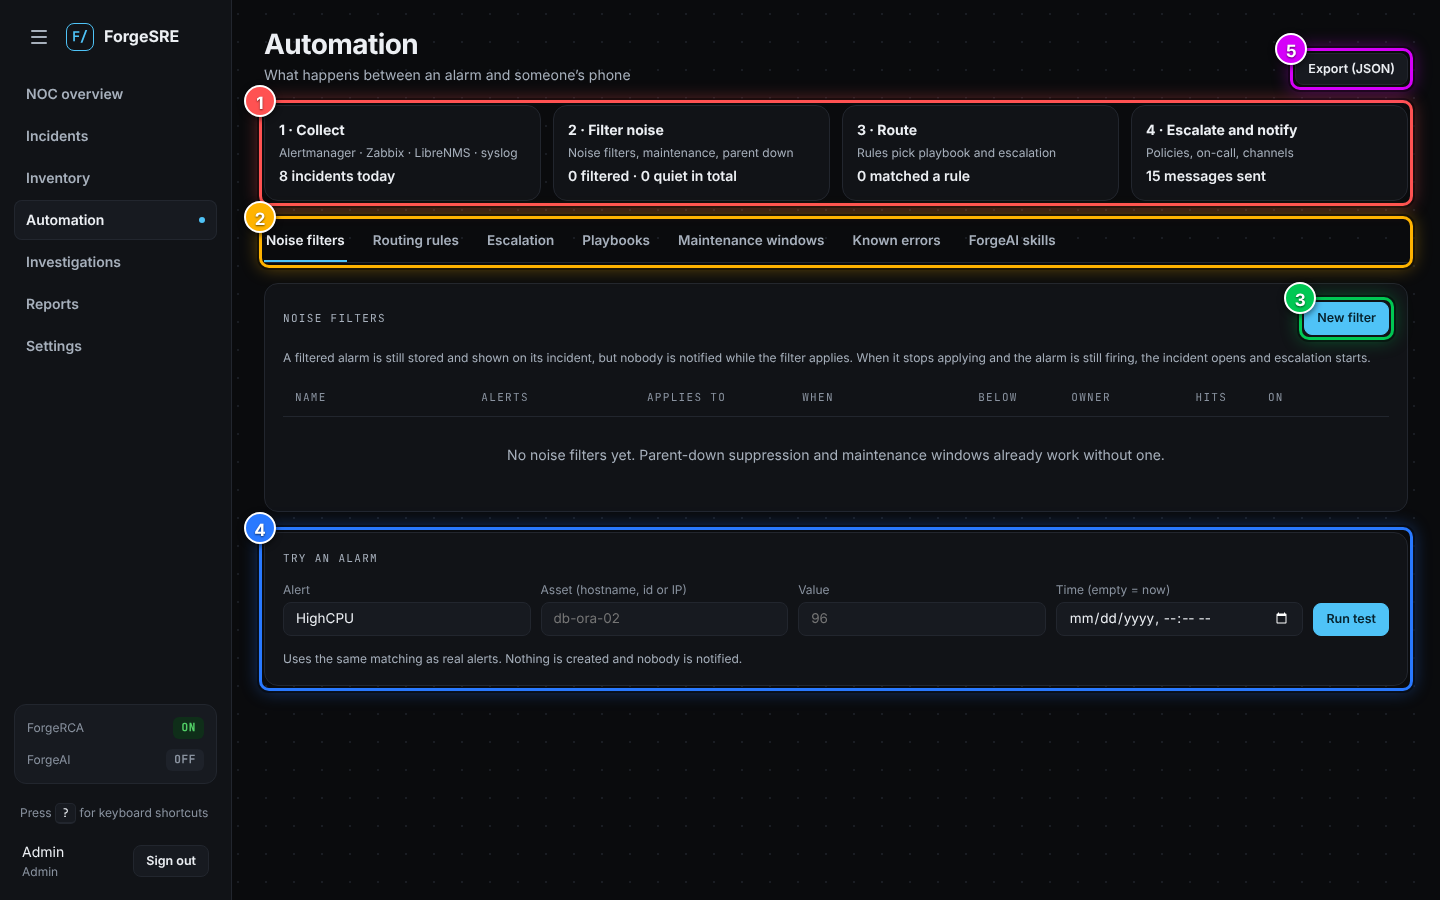
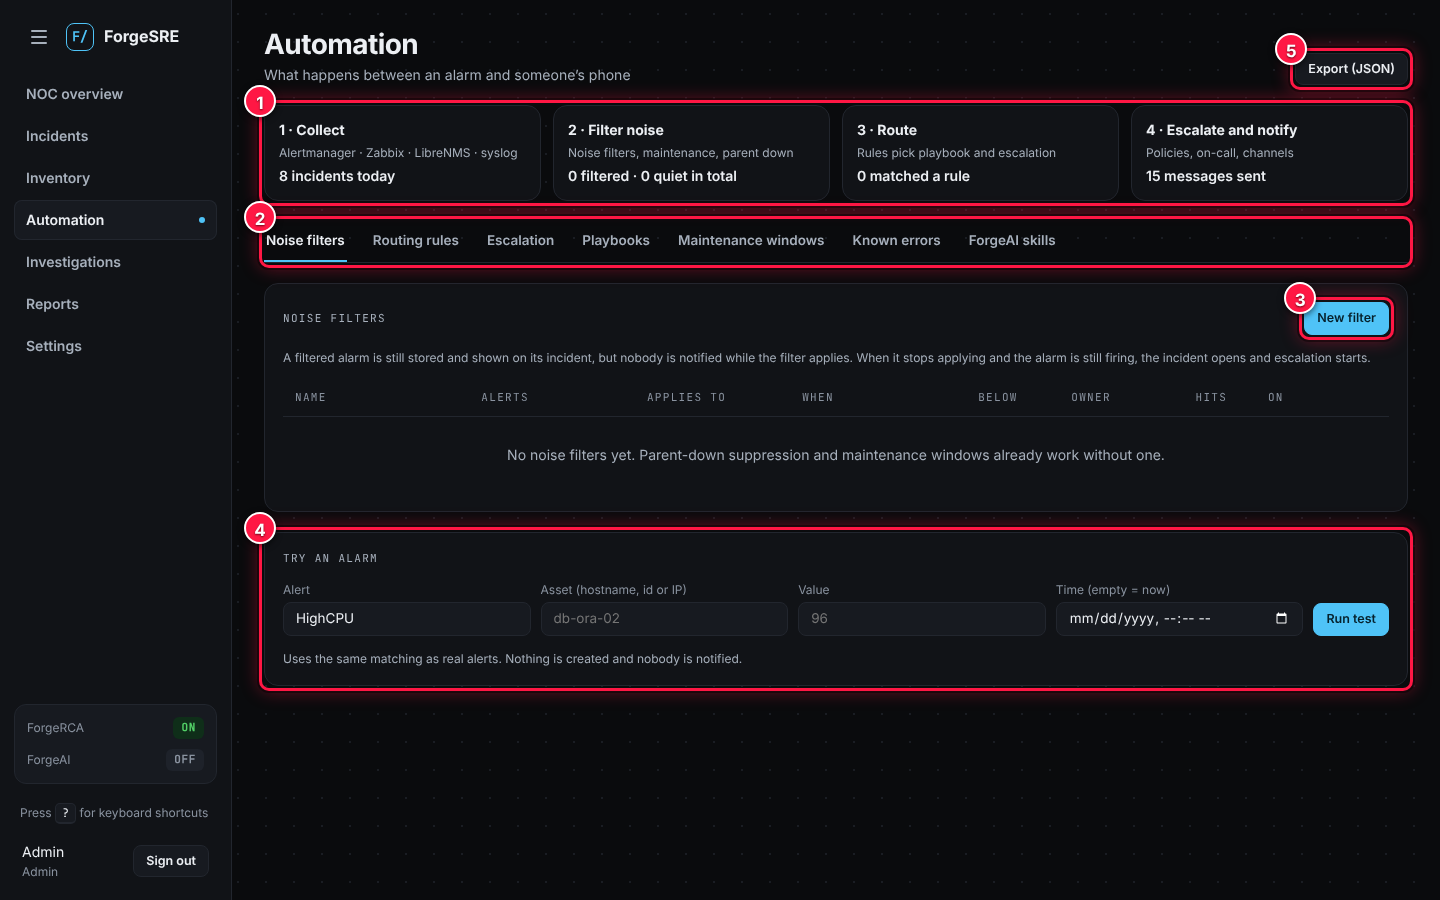
Guide marks in one red; table column Acknow. with short Acknow / Not acknow
Claude-Session: https://claude.ai/code/session_01K9hus2JZBeXGjiRoAgeJJH

diff --git a/web/src/components/IncidentTable.tsx b/web/src/components/IncidentTable.tsx
@@ -45,14 +45,12 @@ function IncidentRow({ row, picked, onPick }: { row: NocIncident; picked?: boole
       <td className="small muted">{row.source || "—"}</td>
       <td>
         {row.ack_at ? (
-          <div className="cell-stack">
-            <span className="small" style={{ color: "var(--ok)", fontWeight: 600 }}>Acked</span>
-            <span className="small muted">{row.ack_by}</span>
-          </div>
+          // who and when are on the incident page and in the tooltip; the cell stays short so Tier fits
+          <span className="small" style={{ color: "var(--ok)", fontWeight: 600 }} title={`Acknowledged by ${row.ack_by || "someone"}`}>Acknow</span>
         ) : row.resolved_at ? (
           <span className="small muted">—</span>
         ) : (
-          <span className="small" style={{ color: `var(--${tone === "crit" ? "crit" : "high"})`, fontWeight: 600 }}>Not acked</span>
+          <span className="small" style={{ color: `var(--${tone === "crit" ? "crit" : "high"})`, fontWeight: 600, whiteSpace: "nowrap" }}>Not acknow</span>
         )}
       </td>
       <td><Chip tone="off">{tierLabel(row.level)}</Chip></td>
@@ -108,7 +106,7 @@ export function IncidentTable({ rows, loaded, canWork = false, onChanged }: { ro
             <th style={{ width: 150 }}>Host</th>
             <th>Problem</th>
             <th style={{ width: 90 }}>Source</th>
-            <th style={{ width: 96 }}>Ack</th>
+            <th style={{ width: 96 }} title="Acknowledged">Acknow.</th>
             <th style={{ width: 80 }}>Tier</th>
             <th style={{ width: 80 }}>Messages</th>
             <th style={{ width: 170 }}>ForgeRCA</th>

diff --git a/scripts/visual_guide.py b/scripts/visual_guide.py
@@ -24,7 +24,7 @@ from pathlib import Path
 
 ROOT = Path(__file__).resolve().parents[1]
 WIDTH, HEIGHT, MAX_HEIGHT = 1440, 900, 2400
-COLORS = ["#ff5252", "#ffb300", "#00c853", "#2979ff", "#d500f9", "#00b8d4", "#ff6d00", "#c6ff00", "#f50057", "#64dd17", "#651fff", "#ffd600"]
+COLORS = ["#ff1744"]  # one red for every mark, so only the number tells the order
 
 
 def card(title: str) -> str:
@@ -67,8 +67,8 @@ PAGES: list[Page] = [
                   "Filter po ozbiljnosti, ili ukucaj host, IP ili broj incidenta."),
              Step("tbody tr >> nth=0 >> td.sev-cell", "The incident name, coloured by severity (red critical, orange high, yellow warning). Click it to open the incident.",
                   "Ime incidenta, obojeno po ozbiljnosti (crveno kritično, narandžasto visoko, žuto upozorenje). Klik otvara incident."),
-             Step("tbody tr >> nth=0 >> text=Not acked", "Nobody has taken it yet. Acknowledge it so escalation stops.",
-                  "Niko ga još nije preuzeo. Potvrdi ga (Acknowledge) da eskalacija stane."),
+             Step("tbody tr >> nth=0 >> text=Not acknow", "Acknow.: Not acknow means nobody has taken it yet; acknowledge it so escalation stops. Who acknowledged it is on the incident page.",
+                  "Acknow.: Not acknow znači da ga niko još nije preuzeo; potvrdi ga da eskalacija stane. Ko ga je potvrdio piše na stranici incidenta."),
              Step("tbody tr >> nth=0 >> input[type=checkbox]", "Tick rows to acknowledge, assign or resolve several at once.",
                   "Čekiraj redove da potvrdiš, dodeliš ili rešiš više odjednom."),
              Step(card("Shift handover"), "Shift handover: write what the next shift must know.", "Primopredaja smene: napiši šta sledeća smena treba da zna."),
@@ -105,7 +105,7 @@ PAGES: list[Page] = [
              Step("button:has-text('All severities') >> xpath=..", "Severity, search and team filters.", "Filteri: ozbiljnost, pretraga i tim."),
              Step("text=Save view", "Save the current filters as a view to open again later.", "Sačuvaj trenutne filtere kao prikaz za kasnije."),
              Step("text=Export CSV", "Pick dates and export the list as CSV.", "Izaberi datume i izvezi listu u CSV."),
-             Step("thead", "Columns: severity, start, host, problem, source, ack, tier, messages sent, ForgeRCA and ForgeAI.",
+             Step("thead", "Columns: severity, start, host, problem, source, Acknow. (acknowledged), tier, messages sent, ForgeRCA and ForgeAI.",
                   "Kolone: ozbiljnost, početak, host, problem, izvor, potvrda, nivo eskalacije, poslate poruke, ForgeRCA i ForgeAI."),
              Step("tbody tr >> nth=0 >> td.sev-cell", "The incident name in its severity colour; badges show SLA breached, flapping or major.",
                   "Ime incidenta u boji ozbiljnosti; oznake pokazuju probijen SLA, flapping ili major."),

diff --git a/docs/visual-guide.md b/docs/visual-guide.md
@@ -30,7 +30,7 @@ The start page: what is burning now, who is on call and whether the hosts answer
 4. Tabs: not acknowledged, acknowledged, resolved today. The number is how many.
 5. Filter by severity, or type a host, IP or incident number.
 6. The incident name, coloured by severity (red critical, orange high, yellow warning). Click it to open the incident.
-7. Nobody has taken it yet. Acknowledge it so escalation stops.
+7. Acknow.: Not acknow means nobody has taken it yet; acknowledge it so escalation stops. Who acknowledged it is on the incident page.
 8. Tick rows to acknowledge, assign or resolve several at once.
 9. Shift handover: write what the next shift must know.
 10. Hosts by group: green when all answer.
@@ -70,7 +70,7 @@ Every incident, newest first, with filters, saved views and CSV export.
 3. Severity, search and team filters.
 4. Save the current filters as a view to open again later.
 5. Pick dates and export the list as CSV.
-6. Columns: severity, start, host, problem, source, ack, tier, messages sent, ForgeRCA and ForgeAI.
+6. Columns: severity, start, host, problem, source, Acknow. (acknowledged), tier, messages sent, ForgeRCA and ForgeAI.
 7. The incident name in its severity colour; badges show SLA breached, flapping or major.
 8. Tier: how far escalation has gone.
 

diff --git a/docs/vizuelni-vodic-sr.md b/docs/vizuelni-vodic-sr.md
@@ -30,7 +30,7 @@ Početna strana: šta gori sada, ko je dežuran i da li hostovi odgovaraju. Sama
 4. Tabovi: nepotvrđeni, potvrđeni, rešeni danas. Broj pokazuje koliko ih ima.
 5. Filter po ozbiljnosti, ili ukucaj host, IP ili broj incidenta.
 6. Ime incidenta, obojeno po ozbiljnosti (crveno kritično, narandžasto visoko, žuto upozorenje). Klik otvara incident.
-7. Niko ga još nije preuzeo. Potvrdi ga (Acknowledge) da eskalacija stane.
+7. Acknow.: Not acknow znači da ga niko još nije preuzeo; potvrdi ga da eskalacija stane. Ko ga je potvrdio piše na stranici incidenta.
 8. Čekiraj redove da potvrdiš, dodeliš ili rešiš više odjednom.
 9. Primopredaja smene: napiši šta sledeća smena treba da zna.
 10. Hostovi po grupama: zeleno kad svi odgovaraju.
